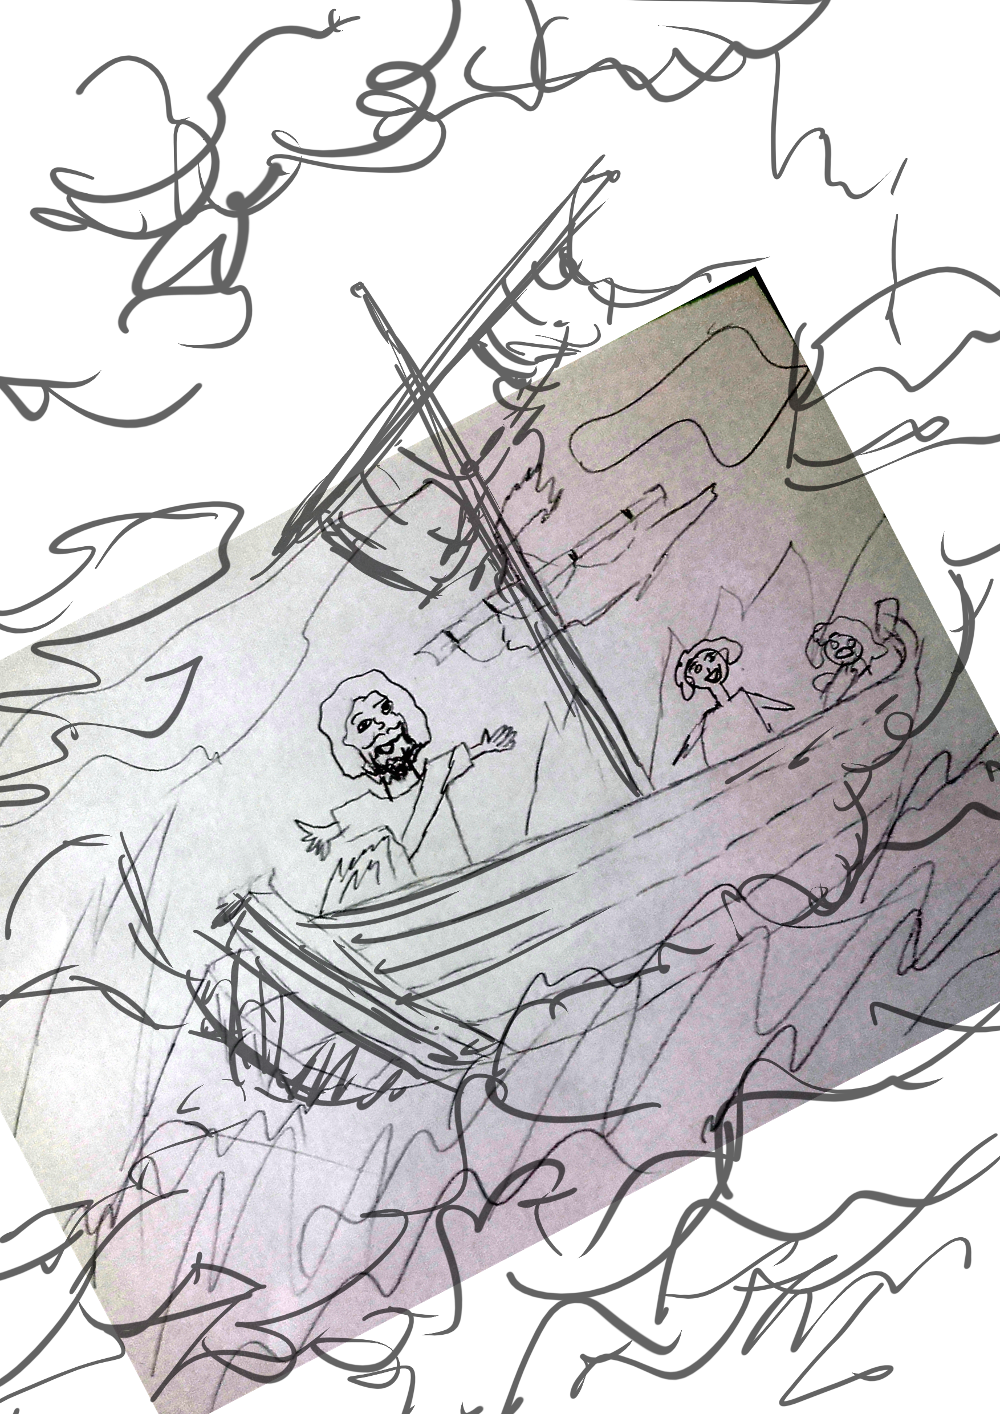
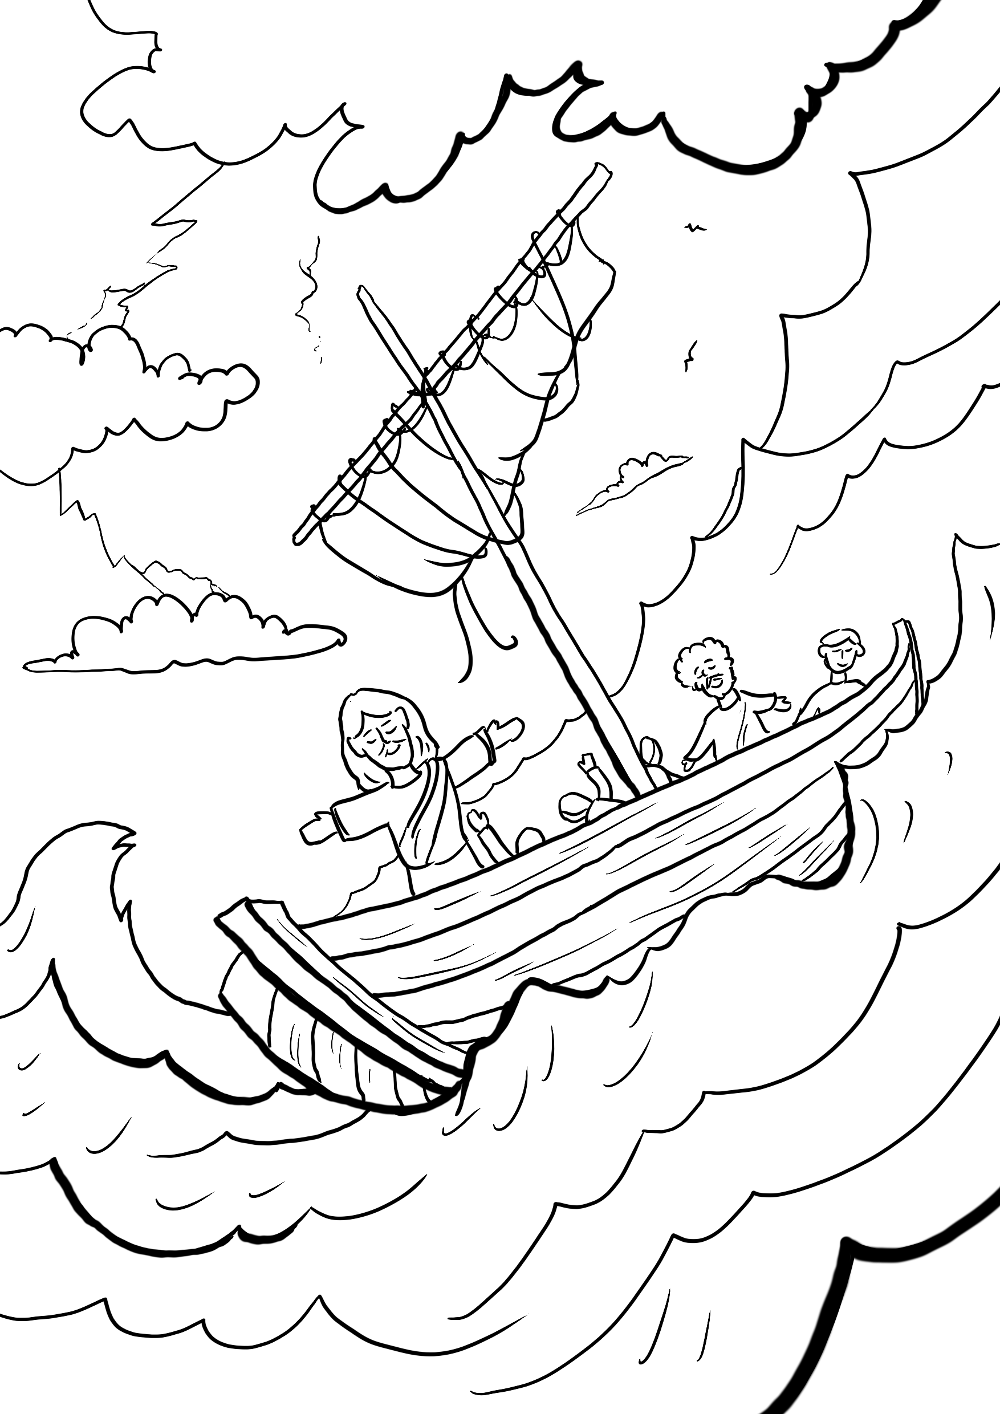
Update 13.

diff --git a/script.js b/script.js
@@ -3,7 +3,7 @@ angular.module('galleryApp', [])
     var gallery = this;
     gallery.language = "ro";
     gallery.work_start_date = new Date(2017,02,12);
-    gallery.worked_hours = 81.5;  // EDIT HERE
+    gallery.worked_hours = 82;  // EDIT HERE
 
     gallery.get_global_progress = function() {
       var index;
@@ -293,7 +293,7 @@ angular.module('galleryApp', [])
       {
         id: 13,
         img: '13.png',
-        done: 50,
+        done: 100,
         title: {
           ro: "Potolirea furtunii",
           en: "Calming the storm"
